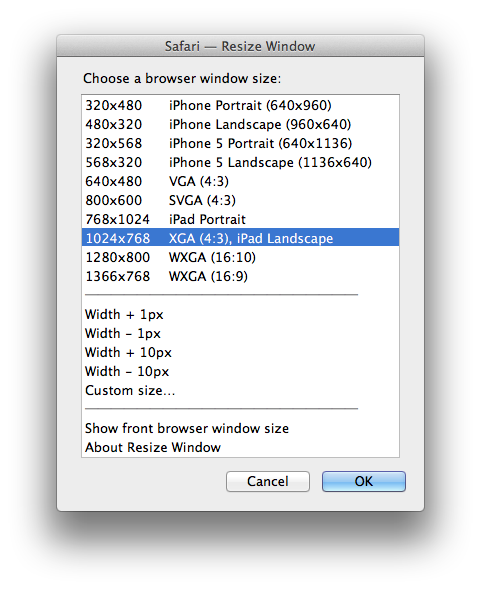
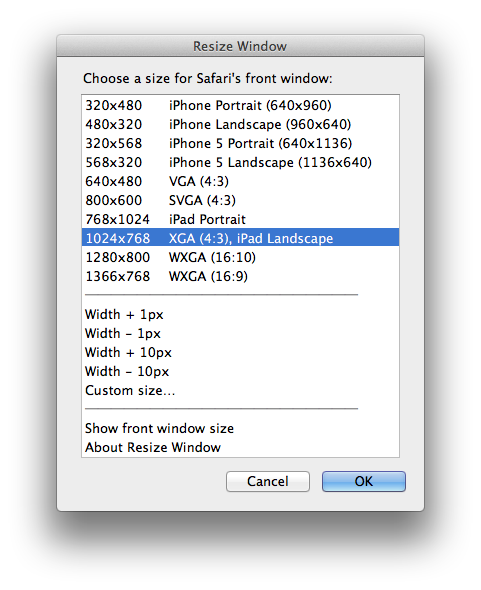
Update documentation for new application support

Changed region(s): [[0.2807, 0.122, 0.6861, 0.1525], [0.343, 0.061, 0.6549, 0.0915], [0.3119, 0.7017, 0.5925, 0.7322]]

diff --git a/doc/styles.css b/doc/styles.css
@@ -4,6 +4,14 @@ body {
     margin: 0.5in;  /* ignored by textutil HTML to RTF conversion */
 }
 
+code {
+    color: #888;
+}
+
+pre code {
+    font-size: 12px;
+}
+
 em {
     font-size: 12px;
 }

diff --git a/doc/readme.md b/doc/readme.md
@@ -7,15 +7,16 @@ Resize Window
 **Website:**       |  [jazzheaddesign.com][website]
 **Requirements:**  |  Mac OS X
 
-  [website]: http://jazzheaddesign.com/work/code/safari-resize-window/
+  [website]: http://jazzheaddesign.com/work/code/resize-window/
 
 Description
 -----------
 
-Resize Window is an AppleScript for Mac OS X that quickly resizes the frontmost
-Safari web browser window to some common sizes as well as custom sizes and
-increments. The script is useful when designing responsive websites that adapt
-to different sizes.
+Resize Window is an AppleScript program for Mac OS X that quickly resizes the
+frontmost window of any application to some common sizes as well as custom
+sizes and increments. Although the script works with any Mac application, it is
+most useful for resizing web browser windows while designing responsive
+websites that adapt to different sizes.
 
 
 Features
@@ -27,7 +28,7 @@ Features
 * Choose to adjust only the width or both the width and the height.
 * When adjusting the height, choose whether or not to subtract the OS X menu
   bar height.
-* Display the current browser window size.
+* Display the current window size.
 
 <!--
 The following horizontal rule is a kludge to get a paragraph space in the RTF
@@ -36,11 +37,11 @@ file. It is replaced with just an empty paragraph, not an RTF horizontal rule.
 
 ---
 
-_Note: The sizes refer to the overall size of the Safari window and not the
-interior document size minus the browser window chrome on OS X or iOS. So the
-smaller sizes are mostly useful for just testing the width. A few FPO images
-are included along with the script though for loading into a browser window and
-quickly eyeballing the fit and manually adjusting the window height._
+_Note: The sizes refer to the overall size of the window and not the interior
+document size minus the window chrome. So the smaller sizes are mostly useful
+for just testing the width for mobile devices. A few FPO images are included
+along with the script though for loading into a browser window and quickly
+eyeballing the fit and manually adjusting the window height._
 
 
 Screen Shots
@@ -61,12 +62,13 @@ Installation
 ### Create the Installation Folder
 
 The script needs to be installed in the Scripts folder in the Library folder of
-your home directory. Specifically, it needs to be installed in
-`~/Library/Scripts/Applications/Safari`. If any of those folders do not exist
-yet on your system, go ahead and create them. The Library folder will already
-exist but may not be visible in the Finder in Mac OS X Lion (10.7) or later.
-To get to the invisible Library folder, Option-click the Finder's Go menu and
-select the Library menu item that appears.
+your home directory. Since the script can be used with any application, if you
+like to keep your scripts grouped, you may want to put it in a subdirectory
+such as "General", i.e., `~/Library/Scripts/General`. If any of those folders
+do not exist yet on your system, go ahead and create them. The Library folder
+will already exist but may not be visible in the Finder in Mac OS X Lion (10.7)
+or later. To get to the invisible Library folder, Option-click the Finder's Go
+menu and select the Library menu item that appears.
 
 ### Install the Script
 
@@ -90,7 +92,7 @@ Bugs
 
 Please report any bugs using the GitHub [issue tracker].
 
-  [issue tracker]: https://github.com/jazzhead/safari-resize-window/issues
+  [issue tracker]: https://github.com/jazzhead/resize-window/issues
 
 
 Credits

diff --git a/README.md b/README.md
@@ -1,10 +1,11 @@
 Resize Window
 =============
 
-[Resize Window][website] is an AppleScript for Mac OS X that quickly resizes
-the frontmost Safari web browser window to some common sizes as well as custom
-sizes and increments. The script is useful when designing responsive websites
-that adapt to different sizes.
+[Resize Window][website] is an AppleScript program for Mac OS X that quickly
+resizes the frontmost window of any application to some common sizes as well as
+custom sizes and increments. Although the script works with any Mac
+application, it is most useful for resizing web browser windows while designing
+responsive websites that adapt to different sizes.
 
 
 Features
@@ -16,13 +17,13 @@ Features
 * Choose to adjust only the width or both the width and the height.
 * When adjusting the height, choose whether or not to subtract the OS X menu
   bar height.
-* Display the current browser window size.
+* Display the current window size.
 
-_Note: The sizes refer to the overall size of the Safari window and not the
-interior document size minus the browser window chrome on OS X or iOS. So the
-smaller sizes are mostly useful for just testing the width. A few FPO images
-are included along with the script though for loading into a browser window and
-quickly eyeballing the fit and manually adjusting the window height._
+_Note: The sizes refer to the overall size of the window and not the interior
+document size minus the window chrome. So the smaller sizes are mostly useful
+for just testing the width for mobile devices. A few FPO images are included
+along with the script though for loading into a browser window and quickly
+eyeballing the fit and manually adjusting the window height._
 
 
 Screen Shots
@@ -52,7 +53,7 @@ $ make install
 
 That uses `osacompile` to create a compiled AppleScript named "Resize
 Window.scpt" from the source file and installs it in a
-`~/Library/Scripts/Applications/Safari` directory.
+`~/Library/Scripts/General` directory.
 
 ### Enable the Script Menu
 
@@ -80,12 +81,12 @@ Resize Window was written by [Steve Wheeler](http://swheeler.com/).
 License
 -------
 
-Copyright &copy; 2014 Steve Wheeler.
+Copyright &copy; 2014--2015 Steve Wheeler.
 
 This program is free software available under the terms of a BSD-style
 (3-clause) open source license. See the [LICENSE] file for details.
 
 
-  [website]: http://jazzheaddesign.com/work/code/safari-resize-window/
-  [issue tracker]: https://github.com/jazzhead/safari-resize-window/issues
+  [website]: http://jazzheaddesign.com/work/code/resize-window/
+  [issue tracker]: https://github.com/jazzhead/resize-window/issues
   [LICENSE]: LICENSE
